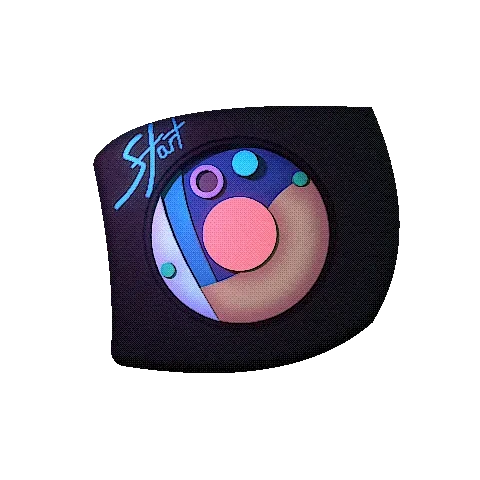
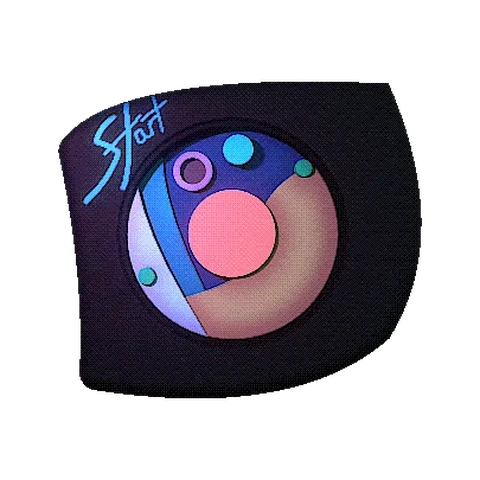
feat: enlarge Start Game square button, real turntable graphic, taller menu
- start-game-btn max-width 140px -> 196px for more visual presence
- menu-glass top padding increased so sign-in chip clears the logo comfortably
- Portrait panel min-height bumped to fit the larger button
- Replaced placeholder start-btn.webp with properly square-cropped turntable
  render (evenly padded on all sides, 480x480, sourced from provided still)
- Sign-in chip remains absolutely positioned top-right corner, out of the
  primary flow — small, unobtrusive, easy to find

Changed region(s): [[0.125, 0.1562, 0.875, 0.8438]]

diff --git a/index.html b/index.html
@@ -297,10 +297,10 @@ html,body{width:100%;height:var(--app-h);overflow:hidden;background:var(--c0);co
 #menu-bg-canvas{position:absolute;inset:0;z-index:0;}
 #menu-pilot{position:absolute;z-index:1;right:1%;bottom:0;height:96%;width:auto;max-width:54vw;object-fit:contain;object-position:right bottom;opacity:0.62;mix-blend-mode:screen;pointer-events:none;filter:drop-shadow(0 0 36px rgba(0,245,255,0.28));-webkit-mask-image:linear-gradient(to top,rgba(0,0,0,1) 70%,rgba(0,0,0,0) 100%);mask-image:linear-gradient(to top,rgba(0,0,0,1) 70%,rgba(0,0,0,0) 100%);}
 /* Portrait phones/tablets: no room for two columns — hide pilot, center a compact panel */
-@media (max-width:820px) and (orientation:portrait){#menu-pilot{display:none;}#screen-menu{justify-content:center;padding-left:0;}.menu-glass{width:min(420px,90vw);min-height:min(680px,88vh);position:relative;}}
+@media (max-width:820px) and (orientation:portrait){#menu-pilot{display:none;}#screen-menu{justify-content:center;padding-left:0;}.menu-glass{width:min(420px,90vw);min-height:min(720px,90vh);position:relative;}}
 /* Narrow landscape too (small phones) — same treatment */
 @media (max-width:560px) and (orientation:landscape){#menu-pilot{display:none;}#screen-menu{justify-content:center;padding-left:0;}}
-.menu-glass{position:relative;z-index:2;background:rgba(255,255,255,0.085);border:1px solid rgba(0,245,255,0.35);border-radius:6px;padding:2.3rem 1.7rem;backdrop-filter:blur(22px) saturate(150%);-webkit-backdrop-filter:blur(22px) saturate(150%);width:min(360px,82vw);text-align:center;box-shadow:0 0 50px rgba(0,245,255,0.12),inset 0 0 60px rgba(255,255,255,0.04);max-height:calc(var(--app-h) - 24px);overflow-y:auto;overscroll-behavior:contain;}
+.menu-glass{position:relative;z-index:2;background:rgba(255,255,255,0.085);border:1px solid rgba(0,245,255,0.35);border-radius:6px;padding:2.6rem 1.7rem 2.3rem;backdrop-filter:blur(22px) saturate(150%);-webkit-backdrop-filter:blur(22px) saturate(150%);width:min(360px,82vw);text-align:center;box-shadow:0 0 50px rgba(0,245,255,0.12),inset 0 0 60px rgba(255,255,255,0.04);max-height:calc(var(--app-h) - 24px);overflow-y:auto;overscroll-behavior:contain;}
 .menu-logo{font-family:var(--font-hud);font-size:1.9rem;font-weight:900;color:var(--cyan);letter-spacing:0.18em;text-shadow:var(--glow-md);margin-bottom:0.2rem;}
 .menu-tagline{font-family:var(--font-mono);font-size:0.62rem;color:var(--text-dim);letter-spacing:0.2em;margin-bottom:2rem;}
 .menu-btn{width:100%;padding:0.85rem 1rem;margin-bottom:0.6rem;background:var(--dim-cyan);border:1px solid var(--border);color:var(--cyan);font-family:var(--font-hud);font-size:0.7rem;font-weight:700;letter-spacing:0.18em;cursor:pointer;transition:var(--trans);border-radius:2px;text-transform:uppercase;text-shadow:0 0 6px currentColor;box-shadow:0 0 9px -2px currentColor,inset 0 0 10px -6px currentColor;}
@@ -550,25 +550,25 @@ html.immersive #app,html.immersive #loading-screen{height:100dvh;}
 #start-game-btn{
   width:100%;
   aspect-ratio:1/1;
-  max-width:140px;
-  margin:0 auto 0.8rem;
+  max-width:196px;
+  margin:0.3rem auto 1rem;
   display:block;
   cursor:pointer;
   border:2px solid rgba(255,210,61,0.55);
-  border-radius:8px;
+  border-radius:10px;
   overflow:hidden;
   background:rgba(0,0,0,0.3);
-  box-shadow:0 0 18px -2px rgba(255,210,61,0.4),inset 0 0 14px -6px rgba(255,210,61,0.2);
+  box-shadow:0 0 22px -2px rgba(255,210,61,0.4),inset 0 0 16px -6px rgba(255,210,61,0.2);
   transition:box-shadow 0.2s,transform 0.15s;
   position:relative;
 }
 #start-game-btn:hover{
-  box-shadow:0 0 30px -2px rgba(255,210,61,0.7),inset 0 0 20px -4px rgba(255,210,61,0.35);
-  transform:scale(1.04);
+  box-shadow:0 0 34px -2px rgba(255,210,61,0.7),inset 0 0 22px -4px rgba(255,210,61,0.35);
+  transform:scale(1.03);
 }
 #start-game-btn img{
   width:100%;height:100%;object-fit:cover;display:block;
-  border-radius:6px;
+  border-radius:8px;
 }
 #start-game-btn .start-label{
   display:none; /* label removed — animation tells the story */